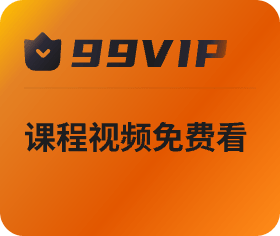
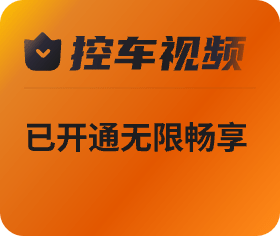
feat:修改图片和文案

Changed region(s): [[0.0857, 0.5042, 0.8857, 0.6525], [0.2286, 0.1483, 0.8857, 0.3263]]

diff --git a/src/components/reservation/reservation.js b/src/components/reservation/reservation.js
@@ -332,9 +332,25 @@ Component({
 			})
 			let { code, data: scheduleList = [] } = await apis.GET_TIME_INTERVAL_LIST({ memberType, memberId, campusId, courseId });
 			wx.hideLoading()
+			// wx.showModal({
+			// 	title: '结果',
+			// 	content: `${JSON.stringify(scheduleList)}`,
+			// 	success (res) {
+			// 	  if (res.confirm) {
+			// 		console.log('用户点击确定')
+			// 	  } else if (res.cancel) {
+			// 		console.log('用户点击取消')
+			// 	  }
+			// 	}
+			//   })
+			  
 			if (code === 200) {
 				// 过滤不展示不可选天数
-				scheduleList = scheduleList.filter(item => !item.isGray)
+				scheduleList = scheduleList.filter(item => !item.isGray);
+				const reg = /-/g;
+				scheduleList.forEach((item) => {
+					item.scheduleDate = item.scheduleDate.replace(reg,'/')
+				})
 				this.setData({
 					scheduleList,
 				});

diff --git a/src/pages/payInfo/payInfo.scss b/src/pages/payInfo/payInfo.scss
@@ -8,6 +8,7 @@
         right: 0;
         top: 0;
         z-index: -1;
+        width: 686rpx;
     }
     &>.title {
         text-align: center;
@@ -43,14 +44,18 @@
         }
     }
     &>.desc {
-        margin-top: 51rpx;
+        margin-top: 28rpx;
         padding: 0 48rpx;
         font-size: 24rpx;
-        line-height: 40rpx;
+        line-height: 35rpx;
         color: rgba(255, 255, 255, 0.6);
     }
+    &>.img {
+        margin-top: 28rpx;
+        padding: 0 48rpx;
+    }
     &>.btn{
-        margin-top: 105rpx;
+        margin-top: 72rpx;
         width: 686rpx;
         text-align: center;
         border-radius: 44rpx;

diff --git a/src/app.js b/src/app.js
@@ -19,7 +19,7 @@ App({
 	},
 	apis: API.init(),
 	onLaunch() {
-		console.log('0.9.34');
+		console.log('0.9.37');
 		// 获取系统高度
 		global.getTitleBarAndStatusBarHeight();
 		global.refreshToken();
